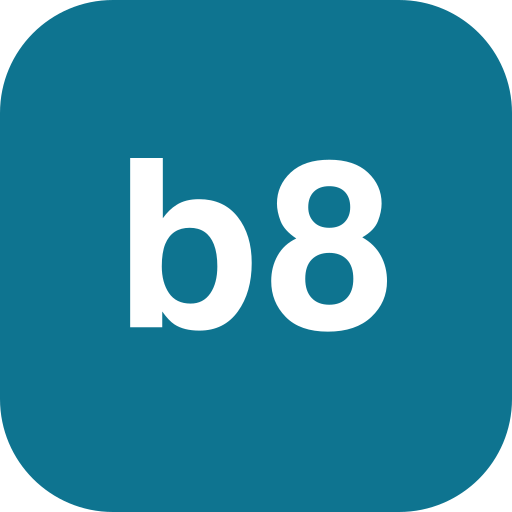
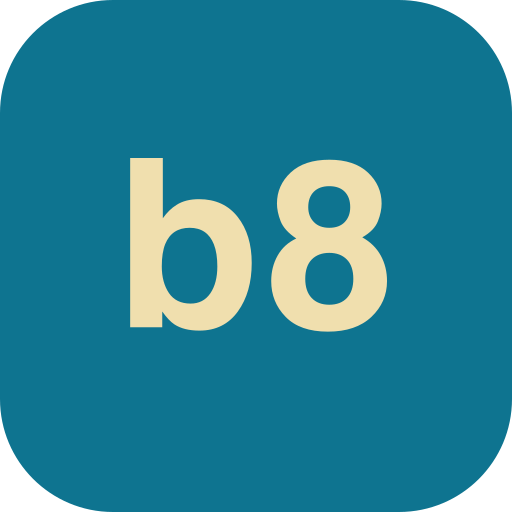
Champagne on cyan-700, and the shell wears it too
The icon's mark is champagne rather than white, and the app's chrome — sidebar,
mobile header, drawer, `theme_color` — is the same cyan-700 the icon sits on.

WARM METAL ON A COOL GROUND is the relationship that makes gold-on-vert work
heraldically, executed at a lightness the wallpaper constraint permits. True gold
was measured and rejected rather than judged: antique gold needs a ground of
teal-800 or darker to clear 3:1, and every such ground falls below 3:1 against a
DARK wallpaper — the fault the icon was changed to fix yesterday. The gold or the
visibility, not both.

BRAND IS CHROME, NEVER DATA, and that rule is now written into the design system
beside the tokens it must not join. Every colour in that document means something
— blue operational, green income, red over budget — so none may paint a permanent
surface: an icon or a nav bar in a status colour makes a claim that is wrong in
some month. Cyan-700 exists to mean nothing, and the rule runs both ways: it may
never appear as a chart series, a cell or a state. The budget grid's black total
row stays black for exactly that reason — it is data emphasis, not chrome.

THE INK HAD TO BE RE-DERIVED, WHICH IS THE PART A COLOUR SWAP HIDES. The shell's
inactive nav label was `text-slate-400`: 7.03:1 on the old slate-900 and 2.11:1 on
cyan-700. Painting the ground and keeping the foreground would have made the
navigation illegible while looking like a tidy one-line change.
[…]

Changed region(s): [[0.5312, 0.3125, 0.7812, 0.6562], [0.25, 0.2812, 0.5, 0.6562]]

diff --git a/apps/web/components/Sidebar.tsx b/apps/web/components/Sidebar.tsx
@@ -33,10 +33,18 @@ function NavItem({ href, label, icon: Icon, pathname, onNavigate }: {
       // `py-2.5` rather than `py-2`: with the icon this is a 40px row, which is close enough to the
       // 44px touch target iOS asks for. The desktop sidebar inherits the change and is no worse for
       // it — a pointer does not mind a taller row.
+      // INK RE-DERIVED FOR THE CYAN GROUND, not carried over. `text-slate-400` scored 7.03:1 on the
+      // old slate-900 and scores 2.11:1 on cyan-700 — it would have been illegible, and a colour
+      // swap that keeps the foreground is how that happens quietly.
+      //
+      // The legible band here is narrow: at 14px the floor is 4.5:1, which admits white (5.36) down
+      // to cyan-100 (4.79) and nothing dimmer. That is not enough range to say "active" with
+      // lightness alone, so the state is carried by the WASH and the WEIGHT instead — which is the
+      // stronger signal anyway, and the pattern this file already used for the active row.
       className={`flex items-center gap-3 px-3 py-2.5 rounded-lg text-sm transition-colors ${
         active
-          ? 'bg-white/10 text-white font-medium'
-          : 'text-slate-400 hover:text-slate-200 hover:bg-white/5'
+          ? 'bg-white/15 text-white font-medium'
+          : 'text-cyan-100 hover:text-white hover:bg-white/10'
       }`}
     >
       <Icon size={16} className="shrink-0" />
@@ -53,8 +61,8 @@ function NavList({ pathname, onNavigate }: { pathname: string; onNavigate?: () =
         {NAV.map((item) => <NavItem key={item.href} {...item} pathname={pathname} onNavigate={onNavigate} />)}
       </nav>
       <div className="px-3 pb-6">
-        <div className="border-t border-slate-800 mb-3" />
-        <p className="px-3 text-[10px] font-semibold uppercase tracking-widest text-slate-600 mb-2">
+        <div className="border-t border-white/20 mb-3" />
+        <p className="px-3 text-[10px] font-semibold uppercase tracking-widest text-cyan-100/70 mb-2">
           Intelligence
         </p>
         <NavItem href="/insights" label="Insights" icon={Sparkles} pathname={pathname} onNavigate={onNavigate} />
@@ -97,10 +105,11 @@ export default function Sidebar() {
   return (
     <>
       {/* DESKTOP: unchanged, and deliberately so. `md:` up keeps the layout that works. */}
-      <aside className="hidden md:flex w-[220px] shrink-0 bg-slate-900 flex-col h-full">
+      <aside className="hidden md:flex w-[220px] shrink-0 bg-cyan-700 flex-col h-full">
         <div className="px-5 pt-7 pb-6">
-          <div className="text-white font-bold text-xl tracking-tight">B8</div>
-          <div className="text-slate-500 text-xs mt-0.5 font-medium tracking-wider uppercase">Finance</div>
+          <div className="text-[#f0dfae] font-bold text-xl tracking-tight">B8</div>
+          {/* cyan-100, NOT champagne: at 12px the mark colour is 4.05:1 and the floor is 4.5:1. */}
+          <div className="text-cyan-100/80 text-xs mt-0.5 font-medium tracking-wider uppercase">Finance</div>
         </div>
         <NavList pathname={pathname} />
       </aside>
@@ -109,17 +118,17 @@ export default function Sidebar() {
           `pt-[env(safe-area-inset-top)]` is what keeps it out from under the Dynamic Island — it
           reports a real number only because `viewport-fit=cover` is set in layout.tsx, and the two
           have to travel together or this is either zero or a gap on every device. */}
-      <header className="md:hidden fixed top-0 inset-x-0 z-40 bg-slate-900 pt-[env(safe-area-inset-top)]">
+      <header className="md:hidden fixed top-0 inset-x-0 z-40 bg-cyan-700 pt-[env(safe-area-inset-top)]">
         <div className="flex items-center justify-between h-14 px-4">
-          <Link href="/dashboard" className="text-white font-bold text-lg tracking-tight">
-            B8<span className="text-slate-500 font-medium text-xs ml-1.5 uppercase tracking-wider">Finance</span>
+          <Link href="/dashboard" className="text-[#f0dfae] font-bold text-lg tracking-tight">
+            B8<span className="text-cyan-100/80 font-medium text-xs ml-1.5 uppercase tracking-wider">Finance</span>
           </Link>
           <button
             type="button"
             onClick={() => setOpen(true)}
             aria-label="Open navigation"
             aria-expanded={open}
-            className="p-2 -mr-2 text-slate-300 hover:text-white"
+            className="p-2 -mr-2 text-cyan-100 hover:text-white"
           >
             <Menu size={22} />
           </button>
@@ -135,17 +144,17 @@ export default function Sidebar() {
             onClick={() => setOpen(false)}
             className="absolute inset-0 bg-slate-950/60"
           />
-          <div className="relative flex flex-col w-[270px] max-w-[80%] h-full bg-slate-900 pt-[env(safe-area-inset-top)] pb-[env(safe-area-inset-bottom)]">
+          <div className="relative flex flex-col w-[270px] max-w-[80%] h-full bg-cyan-700 pt-[env(safe-area-inset-top)] pb-[env(safe-area-inset-bottom)]">
             <div className="flex items-start justify-between px-5 pt-6 pb-5">
               <div>
-                <div className="text-white font-bold text-xl tracking-tight">B8</div>
-                <div className="text-slate-500 text-xs mt-0.5 font-medium tracking-wider uppercase">Finance</div>
+                <div className="text-[#f0dfae] font-bold text-xl tracking-tight">B8</div>
+                <div className="text-cyan-100/80 text-xs mt-0.5 font-medium tracking-wider uppercase">Finance</div>
               </div>
               <button
                 type="button"
                 onClick={() => setOpen(false)}
                 aria-label="Close navigation"
-                className="p-2 -mr-2 -mt-1 text-slate-400 hover:text-white"
+                className="p-2 -mr-2 -mt-1 text-cyan-100 hover:text-white"
               >
                 <X size={20} />
               </button>

diff --git a/apps/web/app/manifest.ts b/apps/web/app/manifest.ts
@@ -27,16 +27,17 @@ export default function manifest(): MetadataRoute.Manifest {
     start_url: '/dashboard',
     display: 'standalone',
     background_color: '#ffffff',
-    // SLATE-900, MATCHING THE APP'S TOP BAR — not the icon, and not the page.
+    // CYAN-700, MATCHING THE APP'S TOP BAR — which is now the brand colour too, so this agrees with
+    // the icon by consequence rather than by copying it.
     //
     // `theme_color` paints the browser or OS CHROME around the app; `background_color` above is what
     // fills the launch splash. An earlier draft of this line set it to the icon's cyan on the
     // reasoning that the splash should flash the brand, which is simply the wrong field.
     //
-    // The mobile header is `bg-slate-900`, and with `black-translucent` the page runs under the
+    // The mobile header is `bg-cyan-700`, and with `black-translucent` the page runs under the
     // status bar — so this is the colour sitting directly beneath the clock. Anything else leaves a
     // seam at the very top of the screen.
-    theme_color: '#0f172a',
+    theme_color: '#0e7490',
     orientation: 'portrait',
     icons: [
       { src: '/icon-192.png', sizes: '192x192', type: 'image/png', purpose: 'any' },

diff --git a/apps/web/app/layout.tsx b/apps/web/app/layout.tsx
@@ -47,9 +47,9 @@ export const viewport: Viewport = {
   width: 'device-width',
   initialScale: 1,
   viewportFit: 'cover',
-  // The same slate-900 the manifest declares and the mobile header paints. White was wrong here:
-  // the top of every mobile page is that dark bar, so a white chrome tint left a seam above it.
-  themeColor: '#0f172a',
+  // The same cyan-700 the manifest declares and the mobile header paints, so the browser's chrome
+  // continues the bar beneath it rather than meeting it at a seam.
+  themeColor: '#0e7490',
 };
 
 export default function RootLayout({ children }: { children: React.ReactNode }) {

diff --git a/.claude/skills/uiux-promax/SKILL.md b/.claude/skills/uiux-promax/SKILL.md
@@ -9,6 +9,39 @@ Read this fully before writing any UI code. All new components must conform to t
 
 ---
 
+## Brand — chrome only, never data
+
+| Concept            | Tailwind class           | Hex       |
+|--------------------|--------------------------|-----------|
+| Brand ground       | `bg-cyan-700`            | `#0e7490` |
+| Wordmark (display) | —                        | `#f0dfae` |
+| Ink on brand ground| `text-cyan-100`          | `#cffafe` |
+
+**These are the only colours in this document that mean nothing.** Every token in the table below
+is semantic — blue is operational, green is income, red is over budget — so none of them may paint a
+permanent surface: an icon or a nav bar in a status colour makes a claim that is wrong in some
+month. Cyan-700 exists to be the app's *identity*, and the rule runs both ways: **never use it for a
+chart series, a cell, a figure or a state.** If it ever encodes data, it has stopped being the brand.
+
+Where it is used: the Home Screen icon, the sidebar, the mobile header and drawer, and `theme_color`.
+
+**Two measured limits, because this ground is mid-toned rather than near-black:**
+
+- **14px text on cyan-700 needs 4.5:1**, which admits white (5.36:1) down to `cyan-100` (4.79:1) and
+  nothing dimmer. `text-slate-400`, the old shell's inactive ink, is **2.11:1** here — a colour swap
+  that keeps the foreground makes the nav illegible.
+- That band is too narrow to signal active/inactive by lightness, so **state is carried by a
+  background wash and font weight**, not by a dimmer label.
+- **Champagne is display-size only** — 4.05:1, which clears the 3:1 large-bold floor and fails the
+  4.5:1 one. It is the wordmark and nothing smaller.
+
+*Chosen 2026-09-23 by measurement: the previous near-black icon was 1.18:1 against a dark wallpaper —
+not dark but invisible. An icon cannot choose its wallpaper, so the figure that matters is the worse
+of the two, and cyan-700's is 3.92:1, the only candidate clearing 3:1 against both extremes. True
+gold was rejected the same way: it needs a ground dark enough to fail that test.*
+
+---
+
 ## Color Tokens
 
 | Concept            | Tailwind class           | Hex       |
